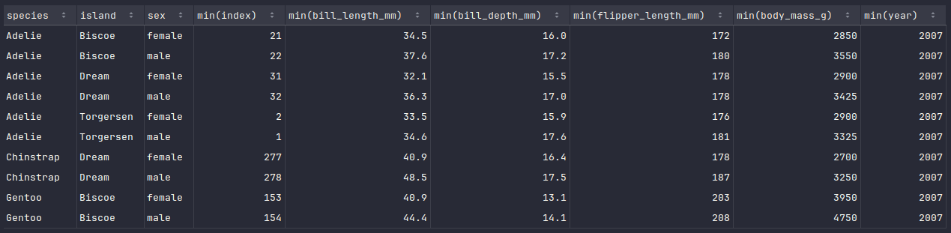
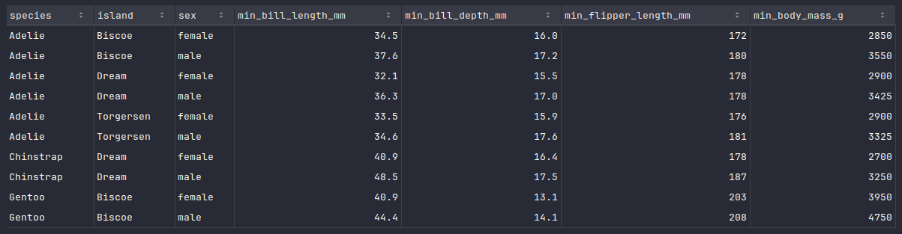
Fix Spark-3

diff --git a/Distributed/Spark-3.html b/Distributed/Spark-3.html
@@ -356,7 +356,16 @@ penguins_df = penguins_df.withColumn('year', penguins_df.year.cast(IntegerType()
     <br/>
     <div id="src-outer-div-1">
       <div class="gen-src-body">
-<pre>penguins_df_min = penguins_df_filtered.groupby('species', 'island', 'sex').min().orderBy('species', 'island', 'sex')</pre>
+<pre>from pyspark.sql.functions import min
+
+min_list = [
+  min('bill_length_mm').alias('min_bill_length_mm'),
+  min('bill_depth_mm').alias('min_bill_depth_mm'),
+  min('flipper_length_mm').alias('min_flipper_length_mm'),
+  min('body_mass_g').alias('min_body_mass_g')
+]
+
+penguins_df_min = penguins_df_filtered.groupby('species', 'island', 'sex').agg(*min_list).orderBy('species', 'island', 'sex')</pre>
       </div>
     </div>
     <br/>
@@ -388,7 +397,16 @@ penguins_df = penguins_df.withColumn('year', penguins_df.year.cast(IntegerType()
     <br/>
     <div id="src-outer-div-1">
       <div class="gen-src-body">
-<pre>penguins_df_max = penguins_df_filtered.groupby('species', 'island', 'sex').max().orderBy('species', 'island', 'sex')</pre>
+<pre>from pyspark.sql.functions import max
+
+max_list = [
+  max('bill_length_mm').alias('max_bill_length_mm'),
+  max('bill_depth_mm').alias('max_bill_depth_mm'),
+  max('flipper_length_mm').alias('max_flipper_length_mm'),
+  max('body_mass_g').alias('max_body_mass_g')
+]
+
+penguins_df_max = penguins_df_filtered.groupby('species', 'island', 'sex').agg(*max_list).orderBy('species', 'island', 'sex')</pre>
       </div>
     </div>
     <br/>
@@ -441,17 +459,17 @@ def fix_missing_values(df_na, df_min, df_max):
     # Find the minimum values for a female of the specific species and island
     f_min = df_min.where((df_min.species == species) & (df_min.island == island) & (df_min.sex == 'female'))
     f_min = f_min.collect()[0]
-    min_b_len = f_min['min(bill_length_mm)']
-    min_b_dep = f_min['min(bill_depth_mm)']
-    min_f_len = f_min['min(flipper_length_mm)']
-    min_b_mas = f_min['min(body_mass_g)']
+    min_b_len = f_min['min_bill_length_mm']
+    min_b_dep = f_min['min_bill_depth_mm']
+    min_f_len = f_min['min_flipper_length_mm']
+    min_b_mas = f_min['min_body_mass_g']
     # Find the maximum values for a female of the specific species and island
     f_max = df_max.where((df_max.species == species) & (df_max.island == island) & (df_max.sex == 'female'))
     f_max = f_max.collect()[0]
-    max_b_len = f_max['max(bill_length_mm)']
-    max_b_dep = f_max['max(bill_depth_mm)']
-    max_f_len = f_max['max(flipper_length_mm)']
-    max_b_mas = f_max['max(body_mass_g)']
+    max_b_len = f_max['max_bill_length_mm']
+    max_b_dep = f_max['max_bill_depth_mm']
+    max_f_len = f_max['max_flipper_length_mm']
+    max_b_mas = f_max['max_body_mass_g']
     # If the features are within the range of the minimum and maximum values, then it is a female. Else, it is a male.
     if (b_len &gt;= min_b_len) and (b_len &lt;= max_b_len) \
       and (b_dep &gt;= min_b_dep) and (b_dep &lt;= max_b_dep) \

diff --git a/index.html b/index.html
@@ -262,6 +262,10 @@
             Kubernetes Storage</span></a></p>
         </li>
         <li>
+          <p>10/29/2022 | <a target="_blank" href="https://polarsparc.github.io/MinIO/MinIO.html"><span class="bold">Hands-on with
+            MinIO</span></a></p>
+        </li>
+        <li>
           <p>01/01/2021 | <a target="_blank" href="https://polarsparc.github.io/Cloud/Vault.html"><span class="bold">Hands-on with
             HashiCorp Vault</span></a></p>
         </li>
@@ -1248,18 +1252,6 @@
         <li>
           <p>08/16/2025 | <a target="_blank" href="https://polarsparc.github.io/MCP/MCP.html"><span class="bold">Quick Primer on
             Model Context Protocol (MCP)</span></a></p>
-        </li>
-      </ul>
-    </div>
-    <div id="step-div">
-      <p>MinIO</p>
-    </div>
-    <br/>
-    <div id="para-div">
-      <ul id="blue-sqr-ul">
-        <li>
-          <p>10/29/2022 | <a target="_blank" href="https://polarsparc.github.io/MinIO/MinIO.html"><span class="bold">Hands-on with
-            MinIO</span></a></p>
         </li>
       </ul>
     </div>
